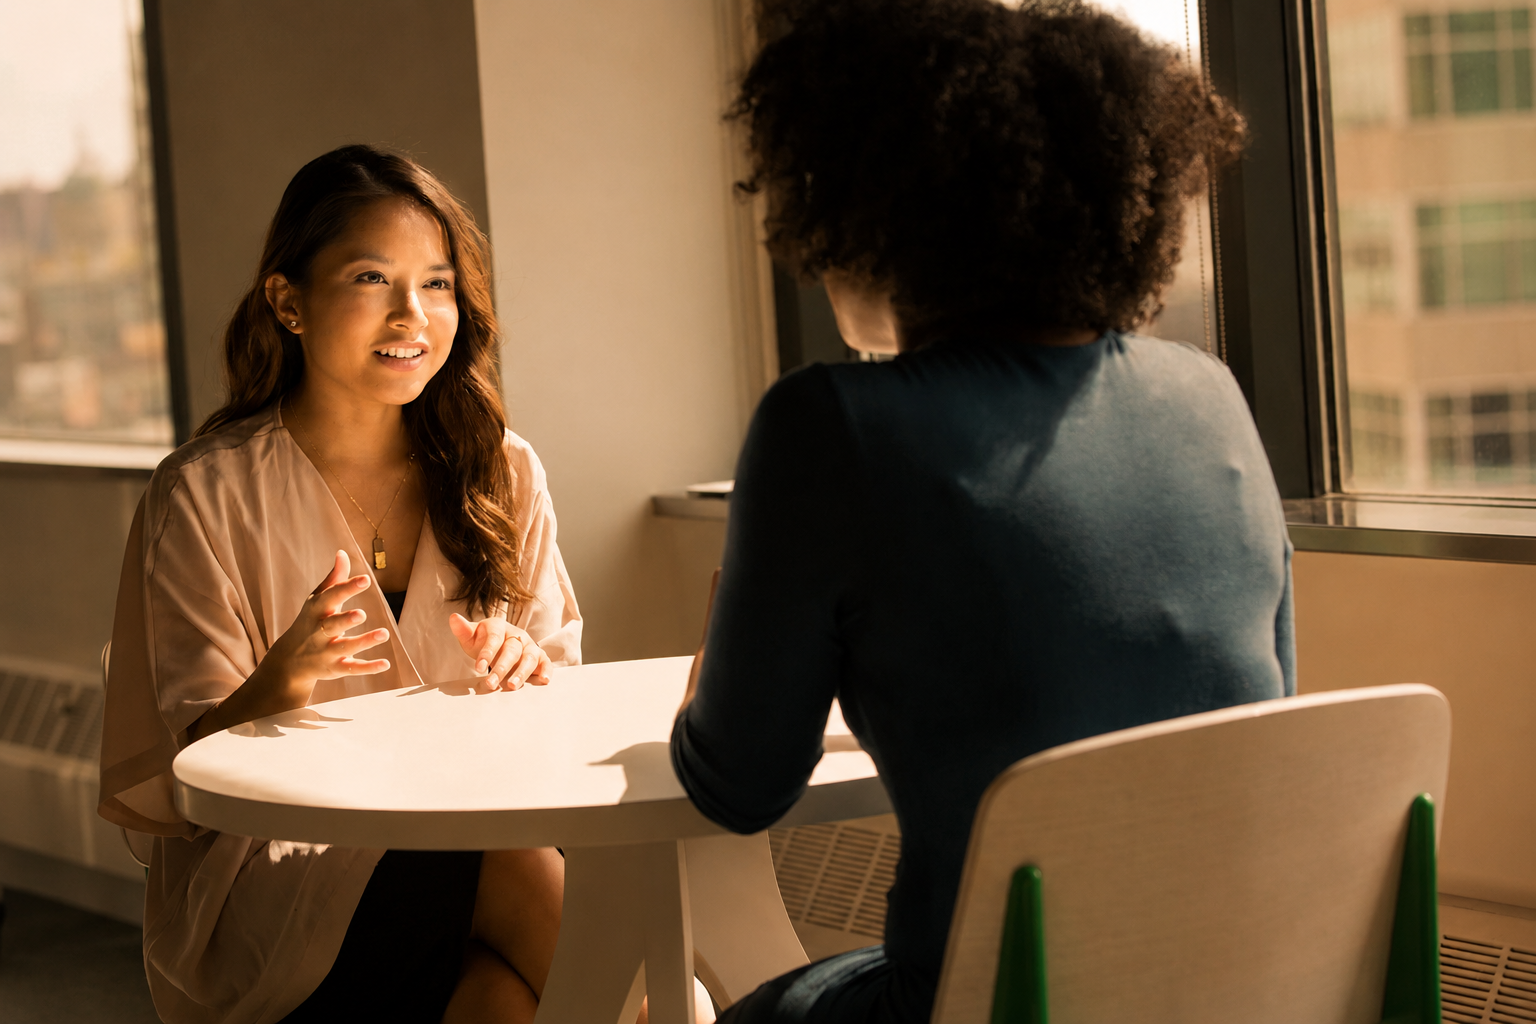
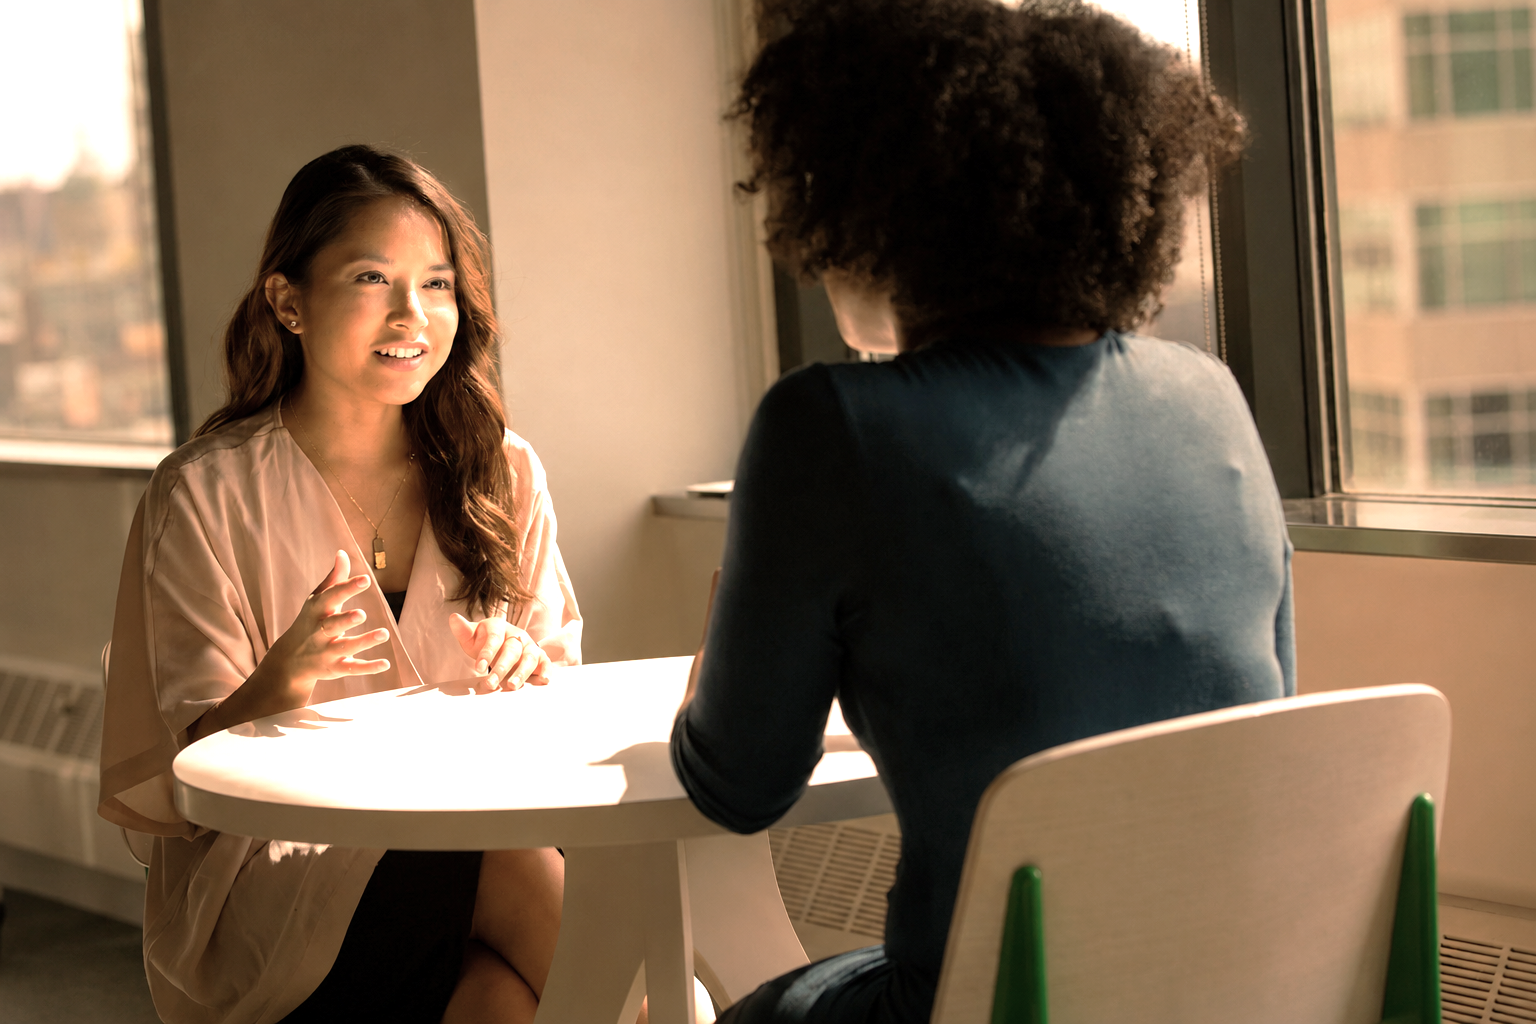
CTA final: nova imagem de fundo; Hero: atualiza imagem

diff --git a/02-index_b2b.html b/02-index_b2b.html
@@ -219,7 +219,7 @@
   .cta-final{position:relative;overflow:hidden;text-align:center;border-radius:24px;
     margin:0 24px;padding:80px 24px;color:#fff;
     background:linear-gradient(100deg,rgba(21,106,150,.95) 0%,rgba(26,128,180,.86) 45%,rgba(26,128,180,.55) 100%),
-    url('https://images.unsplash.com/photo-1543269865-cbf427effbad?auto=format&fit=crop&w=1600&q=80') center/cover no-repeat}
+    url('imgs/ChatGPT Image 16 de jun. de 2026, 16_16_32.png') center/cover no-repeat}
   .cta-final h2{font-size:clamp(2rem,4.8vw,3rem);max-width:22ch;margin:0 auto 16px;color:#fff}
   .cta-final p{color:rgba(255,255,255,.88);max-width:56ch;margin:0 auto 28px}
 